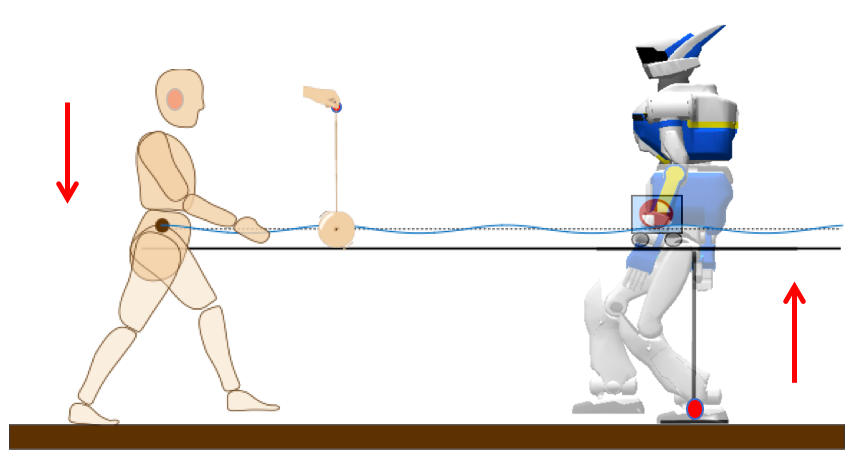
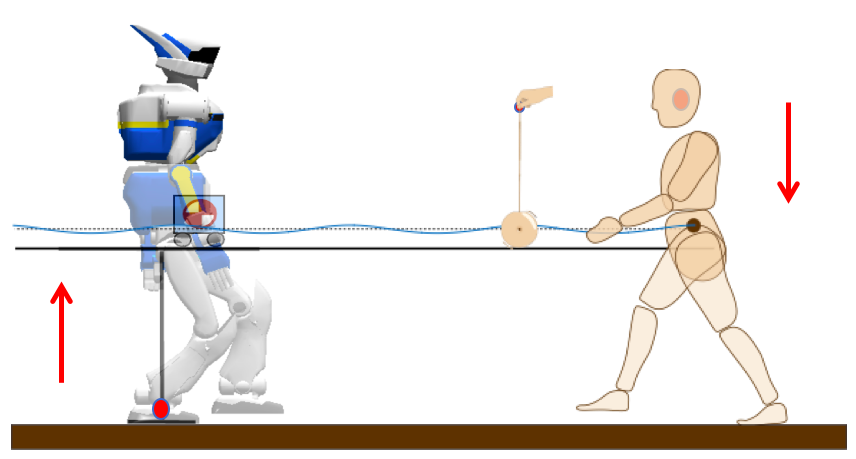
Encore des détails ?

diff --git a/presentation/3-humanoide/b-2-passif.md b/presentation/3-humanoide/b-2-passif.md
@@ -1,4 +1,4 @@
-#### Marcheurs passifs
+#### Marcheurs passifs: une solution périodique
 
 <div class="columns">
 <div class="column" width="35%">
@@ -10,4 +10,11 @@
 <div class="column" width="35%">
 ![Ikemata, 2006](imgs/passive_bipeds_2.png){height=4.5cm}
 </div>
+</div>
+
+Jessy W Grizzle, Christine Chevallereau, Aaron D Ames, et Ryan W Sinnet: «3D bipedal
+robotic walking : models, feedback control, and open problems», IFAC 2010
+
+<div class="notes">
+En locomotion bipède, le régime permanent correspond à des solutions périodiques.
 </div>

diff --git a/presentation/3-humanoide/e-1-actionneurs.md b/presentation/3-humanoide/e-1-actionneurs.md
@@ -2,14 +2,14 @@
 
 ##### Actionneurs et contrôleurs
 
-- Rigides FORMULE
-- Ressorts en série FORMULE
-- Ressorts en parallèle FORMULE
+- Rigides
+- Ressorts en série
+- Ressorts en parallèle
 
 ##### Fonctions de coût
 
 - $CoT$
-- FORMULE
+- $\|\bm\tau\|^2/d$
 
 ##### Modèles
 

diff --git a/presentation/5-annexes/3-stabilite.md b/presentation/5-annexes/3-stabilite.md
@@ -1,0 +1,6 @@
+#### Stabilité: Application de Poincaré
+
+![Interprétation géométrique](imgs/poincare.pdf)
+
+Jessy W Grizzle, Christine Chevallereau, Aaron D Ames, et Ryan W Sinnet: «3D bipedal
+robotic walking : models, feedback control, and open problems», IFAC 2010

diff --git a/presentation/3-humanoide/f-1-tete.md b/presentation/3-humanoide/f-1-tete.md
@@ -2,7 +2,9 @@
 
 <div class="columns">
 <div class="column" width="60%">
-![](imgs/tete.png)
+\centering
+![](imgs/yoyoman.png){height=50%}
+![](imgs/tete.png){height=50%}
 </div>
 <div class="column" width="60%">
 $c_\beta = c_{CoT} + W\beta$

diff --git a/presentation/5-annexes/0.md b/presentation/5-annexes/0.md
@@ -1,0 +1,4 @@
+---
+\setcounter{lastframe}{3}
+\appendix
+# Annexes
